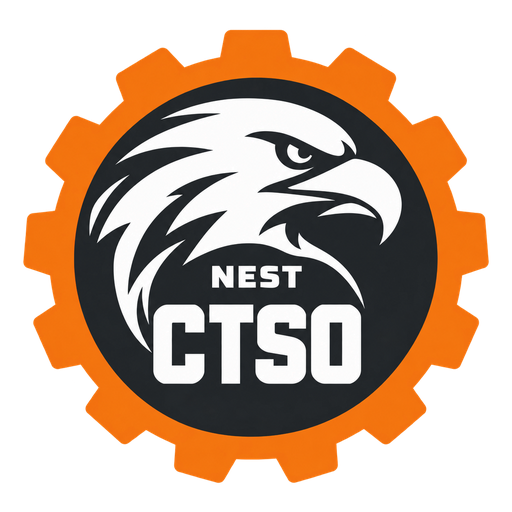
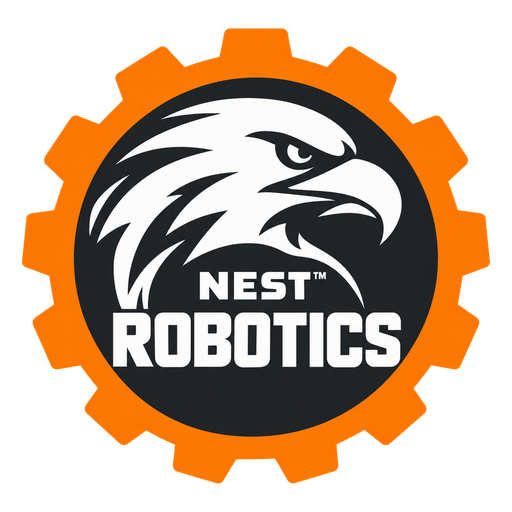
Use NEST Robotics club name on CTSO badge

diff --git a/divisions.html b/divisions.html
@@ -78,8 +78,8 @@
                 </a>
 
                 <a data-division-workspace="CTSO" href="/divisions/CTSO" class="trip-card">
-                    <img class="division-hq-card-icon" src="/assets/division-icons/ctso-512.webp" alt="CTSO official badge" width="160" height="160" decoding="async">
-                    <h2>CTSO</h2>
+                    <img class="division-hq-card-icon" src="/assets/division-icons/ctso-512.webp" alt="NEST™ Robotics official badge" width="160" height="160" decoding="async">
+                    <h2>NEST™ Robotics</h2>
                 </a>
             </div>
         </section>

diff --git a/assets/division-icons/README.md b/assets/division-icons/README.md
@@ -13,3 +13,7 @@ Numbered badges were generated by editing the approved Division 1 reference with
 CTSO used the same reference and preservation instruction, replacing the small word "DIVISION" with "NEST" and the large numeral with "CTSO", centered on one horizontal line inside the existing dark circle.
 
 All new badges were generated with the image generation tool using the approved image as an edit reference. WebP encoding and website-size exports preserve transparency.
+
+## Club name correction
+
+The CTSO badge was edited with the built-in image generation tool to use the club name NEST™ Robotics. Prompt: change only the lettering to upper line "NEST™" (with superscript trademark) and lower line "ROBOTICS" in bold uppercase white, fitted on one horizontal line. Remove CTSO completely; preserve the orange gear, charcoal circle, white eagle head, composition and transparent background.
